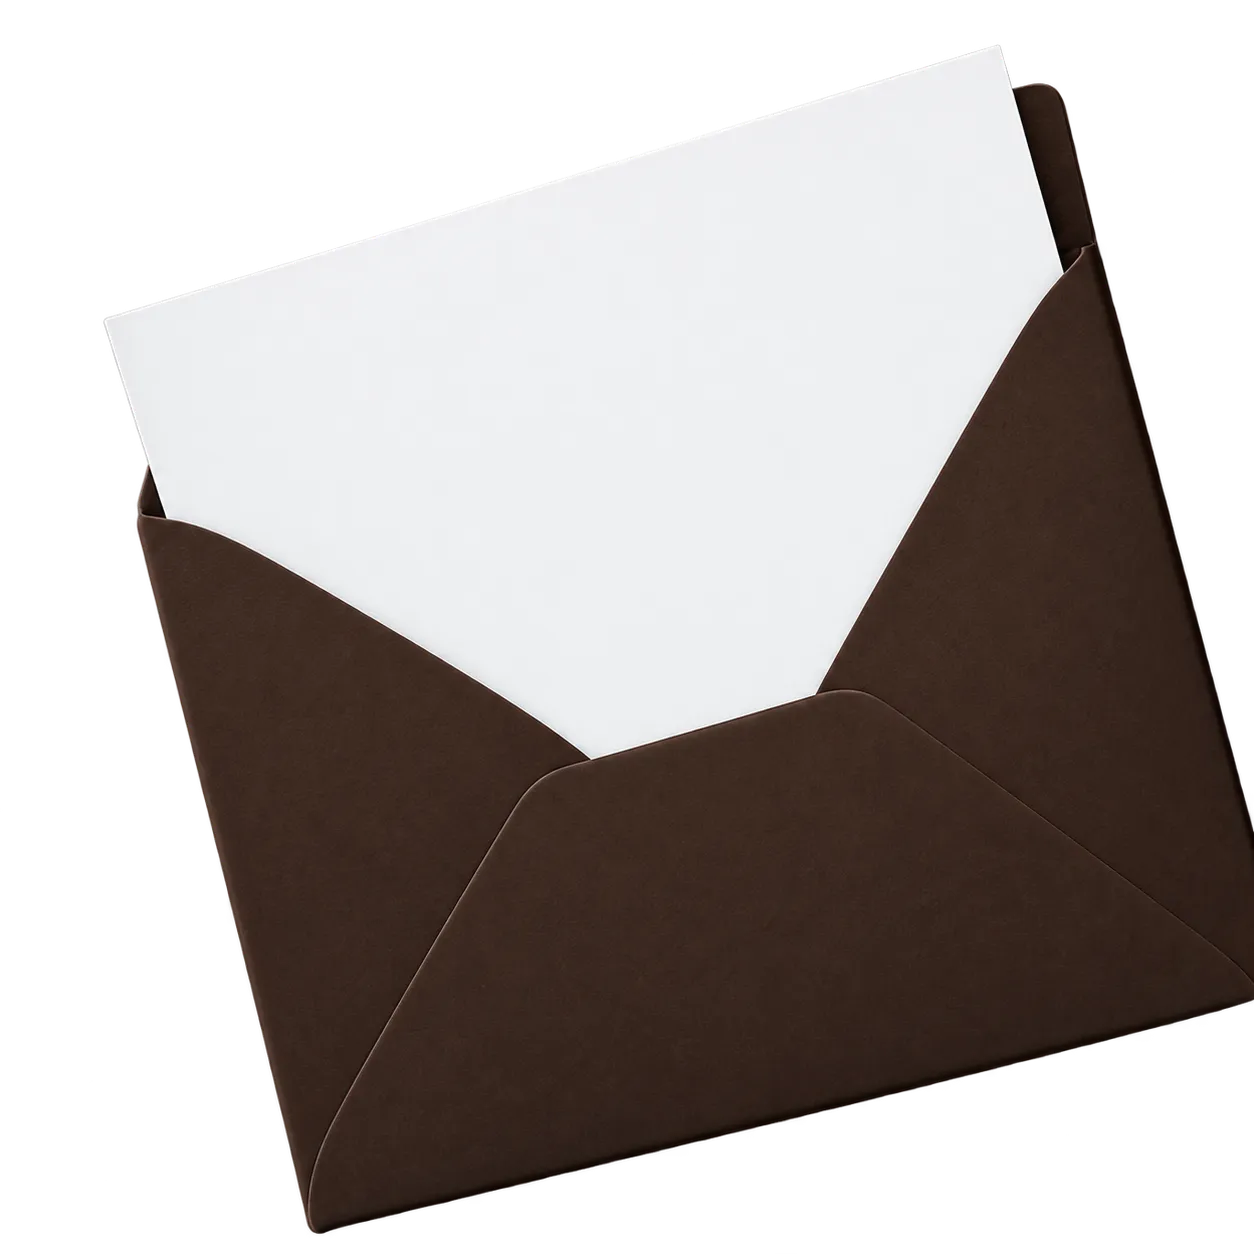
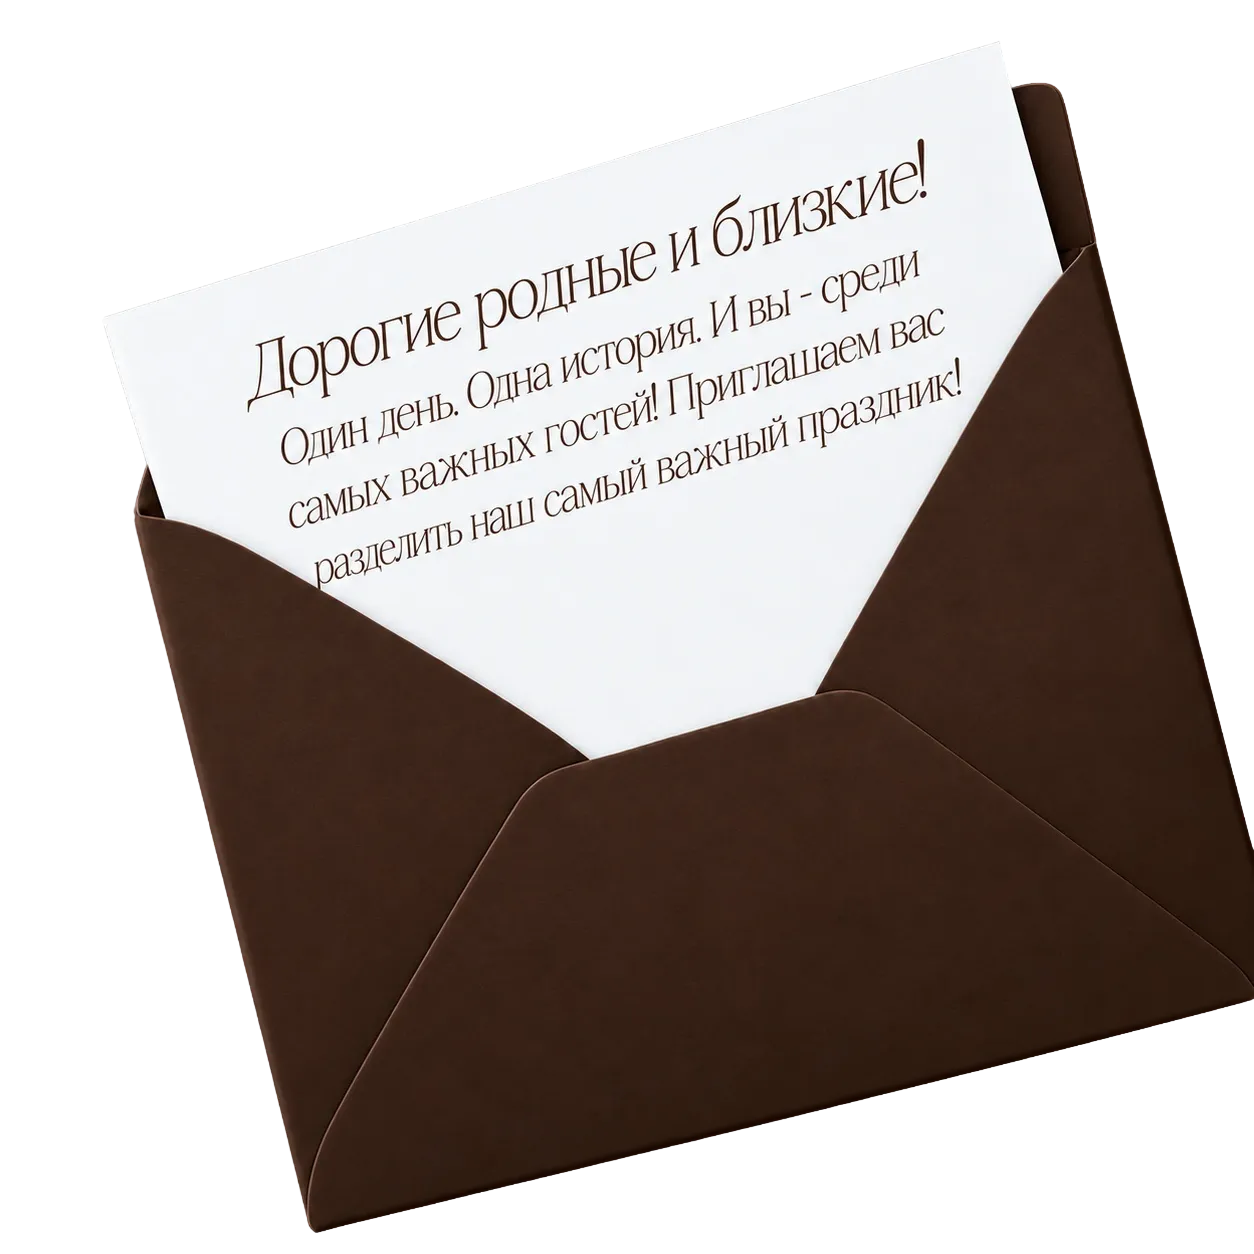
Done openedEnvelope, flowers section. Но блять кое кто еще внесет 100500 правок так что я в рот это ебал

diff --git a/src/components/textile/flowers.scss b/src/components/textile/flowers.scss
@@ -3,6 +3,7 @@
     flex-direction: column;
     align-items: center;
     width: 100%;
+    height: 50%;
     margin-top: 10%;
     opacity: 0;
     transition: opacity 2s ease;
@@ -23,41 +24,30 @@
     }
 
     .flowersUpWrapper {
-        margin-left: clamp(30vw, 45vw, 80vw);
+        margin-left: clamp(30vw, 68vw, 80vw);
     }
 
     .flowersDownWrapper {
+        transform: translateY(-50%) translateX(-15%);
         margin-right: clamp(30vw, 45vw, 80vw);
-        margin-top: 65vh;
-
-        @media (width:375px) {
-            margin-top: 50vh;
-        }
-
-        @media (width:390px) {
-            margin-top: 40vh;
-        }
-
-        @media (width:414px) {
-            margin-top: 36vh;
-        }
-
-        @media (width:430px) {
-            margin-top: 34vh;
-        }
-
-        @media (width:440px) {
-            margin-top: 32vh;
-        }
     }
 
     .flowerWrapperMessage {
+        transform: translateY(-45%) translateX(-4%);
         width: max-content;
         display: flex;
-        position: absolute;
         flex-direction: column;
         align-items: center;
-        transform: translateY(35%);
+        z-index: -1;
+
+        .celebration {
+            margin-bottom: 10%;
+            word-break: break-word;
+            font-family: "Arabella", sans-serif;
+            font-size: 2.5em;
+            font-style: italic;
+            color: rgb(102, 45, 19);
+        }
 
         p {
             word-break: break-word;
@@ -69,14 +59,6 @@
             @media (375px <=width <=440px) {
                 font-size: 3em;
             }
-        }
-
-        .husband {
-            margin-top: 20%;
-        }
-
-        .wife {
-            margin-bottom: 40%;
         }
 
         .day {
@@ -97,7 +79,6 @@
             }
         }
 
-
         .month {
             display: flex;
             flex-direction: column;
@@ -115,6 +96,5 @@
                 border-radius: 100%;
             }
         }
-
     }
 }

diff --git a/src/components/openedEnvelope/openedEnvelope.scss b/src/components/openedEnvelope/openedEnvelope.scss
@@ -5,12 +5,12 @@
     justify-content: center;
     opacity: 0;
     transition: opacity 2s ease;
-    margin-top: 5%;
+    margin-top: 10%;
 
     @media (375px <=width <=440px) {
         width: 100%;
         height: 100%;
-        margin-top: 40%;
+        margin-top: 20%;
         margin-bottom: 10%;
     }
 }
@@ -20,9 +20,10 @@
     display: flex;
     justify-content: center;
     align-items: center;
+    border: 2.5px solid rgb(102, 45, 19);
     border-radius: 100% 100% 0 0 / 100% 100% 0 0;
     transform: scale(1.2);
-    background-color: rgb(212, 195, 172);
+    background: linear-gradient(135deg, #f3ebdb 0%, #e9dcc4 45%, #d9c8a8 100%);
     overflow: hidden;
 }
 
@@ -35,45 +36,6 @@
     @media (375px <=width <=440px) {
         transform:
             translateX(-3%) translateY(6%);
-    }
-}
-
-.openedEnvelopeMessage {
-    width: 100%;
-    position: absolute;
-    transform: translateX(4%) translateY(-127%) rotate(-16.6deg);
-
-    @media (375px <=width <=440px) {
-        transform: translateX(4%) translateY(-107%) rotate(-16.2deg);
-    }
-
-    h2 {
-        margin-left: 6%;
-        margin-bottom: 3%;
-        word-break: break-word;
-        font-family: "Arabella", sans-serif;
-        font-size: 2em;
-        font-style: italic;
-        color: rgb(102, 45, 19);
-
-        @media (375px <=width <=440px) {
-            font-size: 18px;
-            margin-left: 19.5%;
-        }
-    }
-
-    h3 {
-        margin-bottom: 1%;
-        word-break: break-word;
-        font-family: "Arabella", sans-serif;
-        font-size: 2em;
-        font-style: italic;
-        color: rgb(102, 45, 19);
-
-        @media (375px <=width <=440px) {
-            font-size: 10px;
-            margin-left: 14%;
-        }
     }
 }
 

diff --git a/src/components/openedEnvelope/OpenedEnvelope.jsx b/src/components/openedEnvelope/OpenedEnvelope.jsx
@@ -18,11 +18,6 @@ const OpenedEnvelope = (props) => {
                     src="./images/openedEnvelope.webp"
                     alt="Открытый конверт"
                 />
-                <div className="openedEnvelopeMessage">
-                    <h2>Дорогие родные и близкие!</h2>
-                    <h3>Один день. Одна история. И вы - среди самых важных гостей!</h3>
-                    <h3>Приглашаем вас разделить наш самый важный праздник!</h3>
-                </div>
                 <div className="beadsWrapper">
                     <Beads></Beads>
                 </div>

diff --git a/src/index.scss b/src/index.scss
@@ -19,12 +19,11 @@ html {
 body {
     width: 100%;
     min-height: 100dvh;
-    background: linear-gradient(135deg, #e6e1da 0%, #d8d0c5 45%, rgb(196, 185, 172) 100%);
-    background-attachment: fixed;   /* на десктопе ок, на iOS Safari может игнорироваться */
+    background: linear-gradient(135deg, #fffefb 0%, #fdf6ec 45%, #f5ead8 100%);
+    background-attachment: fixed;
     background-size: cover;
     background-repeat: no-repeat;
     
-    /* Safe Area для iPhone */
     padding-top: env(safe-area-inset-top);
     padding-bottom: env(safe-area-inset-bottom);
     padding-left: env(safe-area-inset-left);

diff --git a/src/components/textile/Flowers.jsx b/src/components/textile/Flowers.jsx
@@ -16,12 +16,10 @@ const Flowers = (props) => {
                 />
             </div>
             <div className="flowerWrapperMessage">
-                <p className="husband">Артём</p>
-                <p>и</p>
-                <p className="wife">Марина</p>
+                <p className="celebration">Торжество состоится</p>
                 <p className="day">05</p>
                 <p className="month">06</p>
-                <p className="year">27</p>
+                <p className="year">2027</p>
             </div>
             <div className="flowersDownWrapper">
                 <img

diff --git a/src/components/location/location.scss b/src/components/location/location.scss
@@ -3,7 +3,6 @@
     flex-direction: column;
     align-items: center;
     width: 100%;
-    margin-top: 10%;
     opacity: 0;
     transition: opacity 2s ease;
 }
